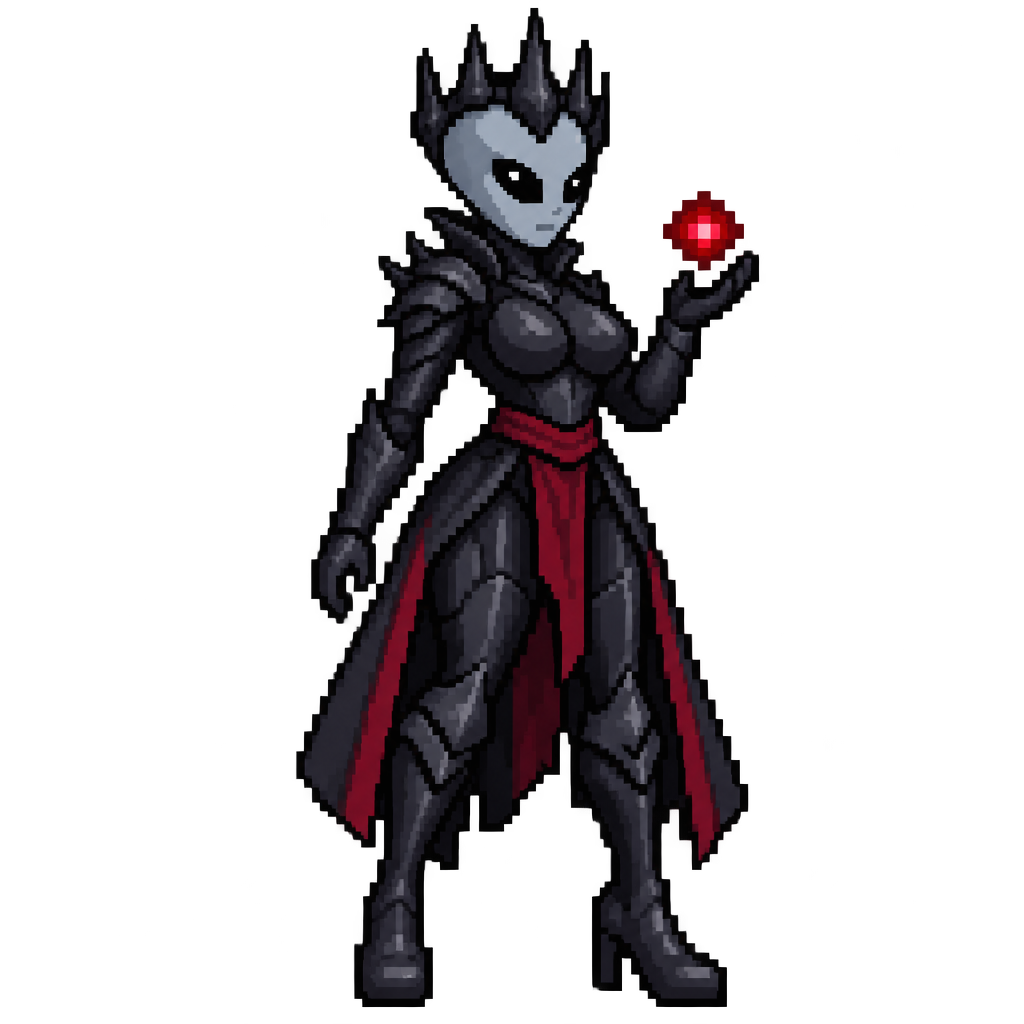
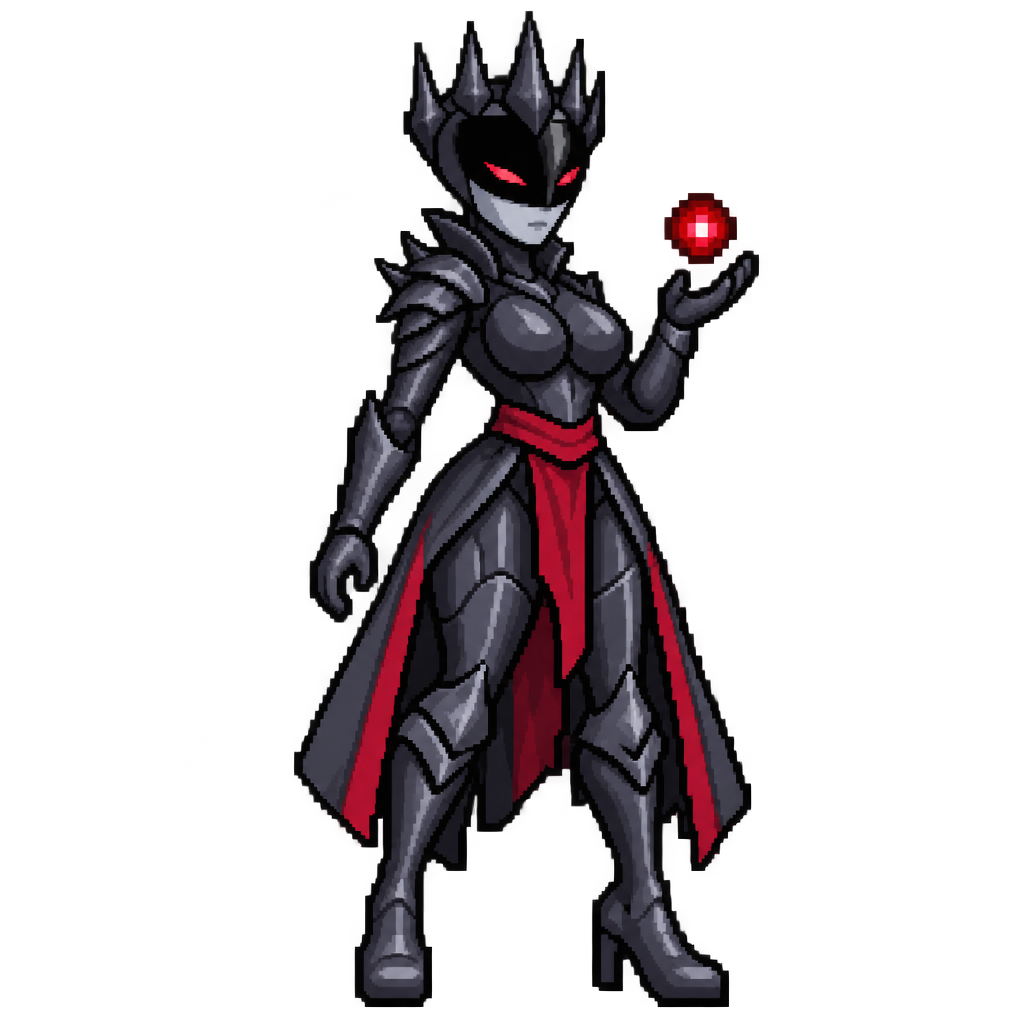
Act IX art review R1 (figures): the Starborn Deathlord's black half-mask, make_art updates, GDD row and ART_BIBLE note
Claude-Session: https://claude.ai/code/session_01TjA5CNwUWb95gMazj5Z3qp

Changed region(s): [[0.2812, 0.0, 0.75, 0.9688]]

diff --git a/art_source/crash_site/make_art.py b/art_source/crash_site/make_art.py
@@ -39,14 +39,16 @@ FIGURES = {
     "bosses/hive_mother_cast": ("raw/hive_mother_cast.png", 96, ["--ramps", "hive,hive_bone,gold", "--no-prune", "--no-levels"]),
     "bosses/hive_mother_strike": ("raw/hive_mother_strike.png", 96, ["--ramps", "hive,hive_bone,gold,brown", "--no-prune", "--no-levels"]),
     "bosses/hive_mother_flight": ("raw/hive_mother_flight.png", 96, ["--ramps", "hive,hive_bone,gold", "--no-prune", "--no-levels"]),
-    "player/broodbound": ("raw/broodbound.png", 56, ["--ramps", "chitin,plasma,grey,gunmetal,hive_bone", "--no-prune"]),  # grey for her pale skin (the skin ramp turned her face dark)
-    "player/broodbound_hyper": ("raw/broodbound_hyper.png", 56, ["--ramps", "gold,gunmetal,grey", "--no-levels"]),  # no skin ramp: it stole the gold's darker shades (round 1 came out brown)
+    # R1 redo (Act IX): the Broodbound is an alien insect woman. Her base converts from raw/broodbound_flat.png (raw/broodbound.png
+    # with the thin orange trim lines opened away, so the 56 px conversion stays readable); the skins straight from their raws.
+    "player/broodbound": ("raw/broodbound_flat.png", 56, ["--ramps", "plasma,chitin,gold,ice,hive_bone", "--no-levels"]),
+    "player/broodbound_hyper": ("raw/broodbound_hyper.png", 56, ["--ramps", "gold,gunmetal,grey,ice", "--no-levels"]),
     "player/broodbound_untouchable": ("raw/broodbound_untouchable.png", 56, ["--ramps", "marble,soul,grey"]),
-    "player/broodbound_deathlord": ("raw/broodbound_deathlord.png", 56, ["--ramps", "velvet,grey,crimson,skin", "--no-levels"]),
+    "player/broodbound_deathlord": ("raw/broodbound_deathlord.png", 56, ["--ramps", "steel,crimson,grey", "--no-levels"]),
 }
 # Figures converted straight by prepare_sprite.py (no pixelate_source step): the Broodbound and her Hyper skin (the
 # pixelated conversion lost her face and eyes at 56 px; the straight one kept them, as the Revenant Heroine's Deathlord).
-DIRECT = ["player/broodbound", "player/broodbound_hyper"]
+DIRECT = ["player/broodbound", "player/broodbound_hyper", "player/broodbound_untouchable", "player/broodbound_deathlord"]  # R1 redo: all four straight (--ink-l 0.15).
 # The obstacle sheet raw/obstacles.png, left to right: (key or keys, art width, ramps). A key list gets the vertical _v
 # too (turned 90 degrees; rect kinds only).
 OBSTACLES = [

diff --git a/art_source/ark/make_art.py b/art_source/ark/make_art.py
@@ -43,7 +43,7 @@ FIGURES = {
     "player/starborn": ("art_source/player/starborn.png", 56, ["--ramps", "hull,gunmetal,plasma,grey"]),
     "player/starborn_hyper": ("art_source/player/starborn_hyper.png", 56, ["--ramps", "gold,hull,grey"]),
     "player/starborn_untouchable": ("art_source/player/starborn_untouchable.png", 56, ["--ramps", "marble,soul,grey"]),
-    "player/starborn_deathlord": ("art_source/player/starborn_deathlord.png", 56, ["--ramps", "grey,velvet,crimson,hull", "--no-levels"]),  # grey first for her grey face, --no-levels and keeps the black iron black (ART_BIBLE, Act VII round 1)
+    "player/starborn_deathlord": ("art_source/player/starborn_deathlord.png", 56, ["--ramps", "grey,velvet,crimson,hull", "--no-levels"]),  # R1 redo: black half-mask visor (raw in art_source/crash_site/raw/r1/sdl_a.png, archived here by prepare_sprite)  # grey first for her grey face, --no-levels and keeps the black iron black (ART_BIBLE, Act VII round 1)
 }
 # Figures converted straight by prepare_sprite.py (no pixelate_source step).
 DIRECT = ["player/starborn_deathlord"]

diff --git a/docs/GDD.md b/docs/GDD.md
@@ -2041,4 +2041,5 @@ Decisions made since the source was written are recorded in 15.0; everything bel
 | — | Tractor Beam, Abduction, Starseed and the Starborn | The Harvester's spell (`UnlockData`, boss `harvester`, offered on every stage at the later-item weight). **Tractor Beam** (id `tractor_lift`: `tractor_beam` is a Concord sound / event id; `TractorLift`, `TractorLiftData`, `AbilityData`): every 3.2 → 2.6 s a column of soul light comes down on the strongest open foe within 300 px and lifts it for 0.9 → 1.0 s through **the one enemy-lift helper `EnemyLift`** (shared with the Ghost Saucer: the hold is one `CombatResolver.stun_enemy()`, the foe kept on its spot, drawn rising in the column; bosses, minibosses, structures, Reckoning enemies, civilians and vehicles are never lifted: on them the spell slams in place after 0.4 s), then slams it down: 38 → 78 to it and 45 → 57% of that to the foes within 48 → 64 px. **Abduction** (id `star_abduction`, display name "Abduction"; `EvolutionData`, Tractor Beam + **Starseed** at Lv 5): three foes a cast, held 1.2 s, 88 damage, 70 px at 50%, and every slam first drags the foes within 120 px in (knockback 260 / mass) and shakes them for 18% of the damage (`star_abduction_quake`). **Starseed** (own decision on its rule): the beam lifts 4 → 20% sooner and the slam reaches 5 → 25% wider (`AbilityManager.apply_spell_mods()` on the rows' own keys). **The Starborn** (**female**, figure style: a grey who deserted the Harvesters, a hull-white suit with plasma seams and a long gunmetal coat; `CharacterData`): Deserter's Signal (own decision): one more foe lifted a cast; +5 max HP, +4% move speed; Hyper skin "The Gilded Deserter", the Untouchable and Deathlord skins. Spell echo: a soul-light ring with every other lift. First pass of the evolution (96 damage, 55% splash, 30% quake): 244k damage in the forced seed-7 Graveyard run (95k of it quake), far ahead of every other source. |
 | — | The Ghost Saucer, Black Mothership and Crop Circles | The finale's summon class (`UnlockData` by the Harvester, offered on every stage): `UnitData` `ghost_saucer` (a machine: a Concord saucer raised in bone plates and soul-light; 1 → 3 a card, formation `back`, `flies`: over the obstacles, enemies still hit it, **never liftable by the Concord**), behaviour **`saucer_lift`** (`GhostSaucerBehavior`, the same on every stage): its attack (`attack_profile` `saucer_beam`) is a SHORT BEAM of 190 px along the line to its target that strikes every enemy within 7 px of the line once (`damage_enemy()` with its own source; the summons' attack path, never `ConcordBeams`), drawn as a stretched texture; every 7 s it lifts the nearest SMALL foe within 170 px (`EnemyLift.can_lift(small_only)`: never a boss, miniboss, structure, Reckoning enemy, elite or body over 12 px) for 1.2 s through the shared helper and drops it for 22 to it and half to the foes within 36 px. Evolution **Black Mothership** (`SummonEvolutionData`, transform, ×1.5 HP, ×1.3 damage, the drop ×1.3 wider): three beams fanned 0.25 rad apart and two foes held at once. Paired passive (own decision, name and rule, unique among every name) **Crop Circles**: every class special's held effects (its `*_duration` keys: the saucer's lift, freezes, stuns, chills) last 6 → 30% longer, its own category in `HordeDirector._special_stats()` (the one path; 0 when not owned). Ossuary mastery (`mastery_data.gd`, "A saucer that harvests for you now."; 24 classes × 760 = 18,240). Volleys: a soul-light ring where a lifted foe falls (Black Mothership 10). `PassiveData.MINION_SPECIAL_SOURCES` counts its drops. Achievement **The Last Harvest** (owner-approved proposal; `MetaData`: a boss kill on the Ark, the stage record, as Last Supper; bounty 500): it only records the clear, with the title **The Unharvested** (own decision); no epilogue part, closing card or hook (owner, Nov 3). Autotest lines `tractor beam`, `ghost saucer`. **Forced runs**: `--stage=graveyard --policy=army --mortal --seed=7 --classes=ghost_saucer,warrior --passives=crop_circles --spells=tractor_lift --character=starborn`: VICTORY, lowest HP before 0:00 104, `stuck_units=0`, zero errors; Abduction at 8:00, Black Mothership at 8:40; Tractor Beam 218k damage (Abduction 136k, quake 59k; 1,828 lifts, 39 slams in place), the Ghost Saucers 57k (5,478 beams, 614 lifts). Still the run's top source (the forced runs give it every level): for the playtest pass. |
 | — | Act IX art: the Ark of the Concord (phase 2) | ART_BIBLE "Act IX: the Ark of the Concord (phase 2, Nov 2026)": 13 API images (about $0.30, ledger): the Grey Overseer, the Luminous Archon, the freed beast, the Harvester and its true form, the Starborn and her three skins, the Ghost Saucer and Black Mothership, two badge sheets (seven badges), rebuilt by `art_source/ark/make_art.py`; walk / glide / hover strips and the Starborn's idle strips (`walk_cycle.py`, `# --- Act IX: the Ark ---`); the floors, obstacles, structures and the throne's ring mask drawn on the grid by `tools/ark_tiles.py`. Contact sheet `docs/act9/ark_contact_sheet.png`. No Concord unit in violet and bone; the raised saucers are the necromancer's bone and soul-teal. **For the owner's review.** |
+| — | Act IX art review, round 1 (figures) | Owner's Redo marks, Group B (`docs/act9/ART_REDO_R1.md`), 15 API images (about $0.35, ledger keys `*_r1`). **Hive Mother** ("wider hips and bigger bust"): regenerated from her sprite and concept (female, figure style pushed further, chitin-covered), then her cast, strike and Flight poses from that still (all four through `pixelate_source.py`, 88 / 92 / 92 / 100 px wide, 96 high; the Flight still keeps its 2 + 2 padding rows); the bust box is `(36, 53, 31, 41, 2, 2)`, two lobes, the cream hooks beside the lobes outside the box; her glide, idle and Flight strips rebuilt. **Broodbound** ("hard to see the details, make her look more like an alien or a bug"): redesigned as an alien insect woman (antennae, mandible crest, compound eyes, beetle wing-cases, folded insect wings, extra thin arms), bright green chitin with gold plates and pale-cyan wings, never near-black, no violet; her base converts from `art_source/crash_site/raw/broodbound_flat.png` (the thin orange trim lines opened away so the 56 px conversion stays readable); the three skins regenerated from the new base (Hyper gold and black, Untouchable white and soul-teal, Deathlord iron grey and crimson); bust box `(14, 24, 14, 22, 2)` with the raised arm and shoulder case excluded, the Hyper skin its own box (it is 30 wide). **Starborn Deathlord** ("some kind of black mask"): regenerated with a sleek black half-mask and crimson slit eyes over the approved Deathlord; strips refit through the base Starborn box. Rig lines and the skin box in `tools/walk_cycle.py`; sources `art_source/crash_site/raw/` and `raw/r1/` (prompts beside them). |
 | — | Act IX integration (phase 2) | The three stage branches merged `--no-ff` on the lead's branch in order (the Crash Site, the Proving Moon, the Ark), every appended block kept, the Crash Site first: the spell book steps each stage's spell in its own loop (`CRASH_SITE_IDS`, `PROVING_MOON_IDS`, `ARK_IDS`; only Bone Beetles has a kill hook); `ConcordEnemyData.ENEMIES` holds the Brood rows (Burrower, Acid Spitter) then the Grey Overseer, their constants after it; `SoundData.CONCORD_SOUNDS` is the foundation's block then the Crash Site's 4 (the other two added none). The block check (`hunkcheck2.py`) finds every added block. No id collisions across kinds, kits, sprites, obstacles, spells, passives, characters, titles, classes; every stage's squads and weights name real kinds. Ossuary check PASS (24 classes, masteries 18,240). Bone Walls stop every Concord beam: the wall test sits in `ConcordBeams._resolve_line()`, which every beam goes through (the Vrask caster locks, Vrask'Tal, the Luminous Archon's lances, the Harvester and the Final Harvest's eye). Checked with `--spells=bone_wall`, seed 7, army: the Proving Moon 848 wall stops (VICTORY, 26%, Vrask'Tal 18:22), the Ark 856 (VICTORY, 94%, the Harvester 19:10). Same-seed gate (`docs/act9/tools/gate.sh` run one Godot at a time, base `5ba27e5` = `2c2fb72` plus the Act VIII pass 3 commits, so Liberty Heights compares like for like; Fort Kessler is not in the gate): every gameplay line identical on stages 1–24; only listing lines differ (recipes 55 → 59, Codex spell 33 → 36, summon 23 → 24, enemy 146 → 156, skins 136 → 148, Ghost Saucers in Blood Scent's fast list). Seed 7, `--policy=army --mortal`: the Crash Site VICTORY (lowest HP before 0:00 80%, the Hive Mother slain 18:30), the Proving Moon VICTORY (93%, Vrask'Tal 18:21), the Ark VICTORY (89%, the Harvester 18:43); `--coop-bot` Crash Site VICTORY (P1 86%, P2 23%; the Hive Mother 19:15); forced rewards: Bone Beetles + the Broodbound on the Crash Site VICTORY (47%, the Hive Mother not slain), Soul Caster + the Blooded + Mirror Bones on the Proving Moon VICTORY (25%, Vrask'Tal 18:34), Tractor Beam + the Starborn + Ghost Saucer / Warrior on the Ark VICTORY (80%, the Harvester 18:59). Zero `SCRIPT ERROR` / `ERROR:` / `WARNING:`, `stuck_units=0` in every run. Still `"playable": false`. |

diff --git a/docs/art/ART_BIBLE.md b/docs/art/ART_BIBLE.md
@@ -3147,3 +3147,6 @@ mask squashed into the throne's tilted rings by the code).
 Code-drawn (no PNG): the Grey Overseer's widening pulse ring, the Archon's glow, Tractor Beam's column of soul light and the lifted
 foe's mark (the enemy's body stays on the ground: an Enemy has no draw offset), the Ghost Saucer's short beams, the Reaping's glow over
 the ring, the true form's glow over the base sprite when its art is missing.
+
+### Act IX art review, round 1 (figures)
+The Hive Mother (all poses) was redrawn with wider hips and a bigger bust; the Broodbound is an alien insect woman in bright green and gold (base converted from `art_source/crash_site/raw/broodbound_flat.png`, thin trim lines removed before conversion; skins Hyper / Untouchable / Deathlord regenerated from her); the Starborn Deathlord wears a black half-mask visor. Rebuilt by `art_source/crash_site/make_art.py` (figures step) and `art_source/ark/make_art.py`. Rig lines in `tools/walk_cycle.py`.
